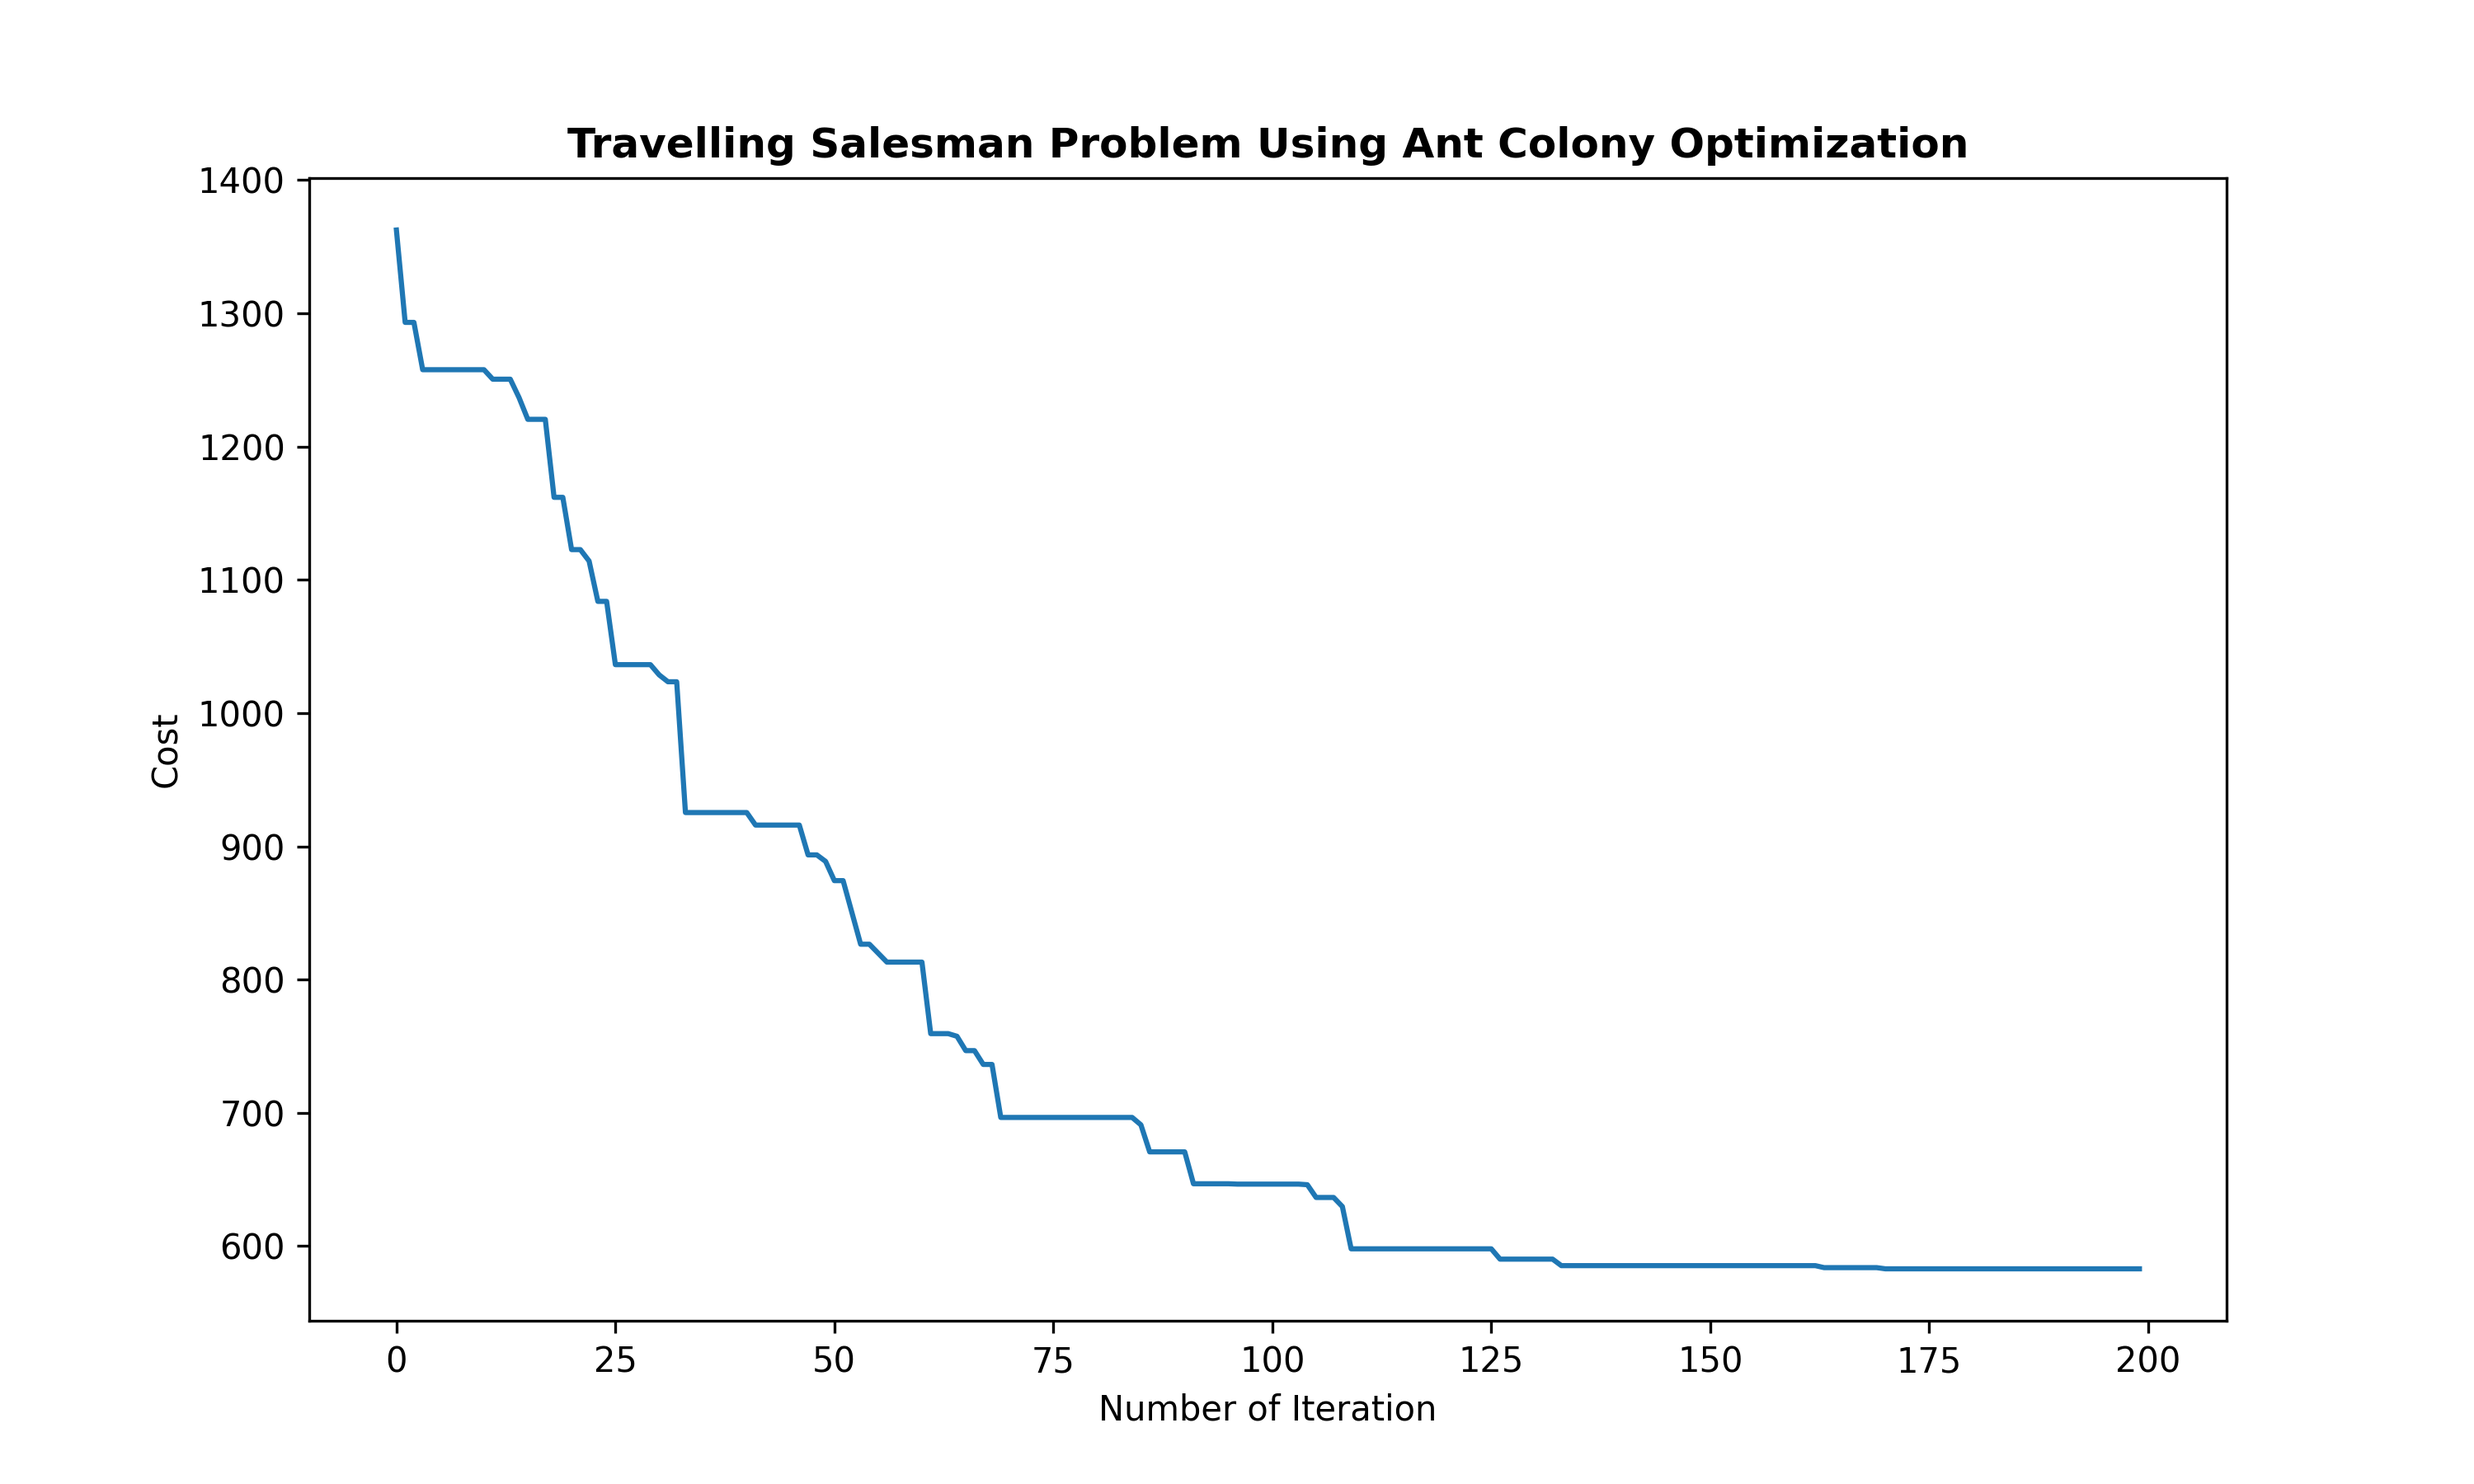
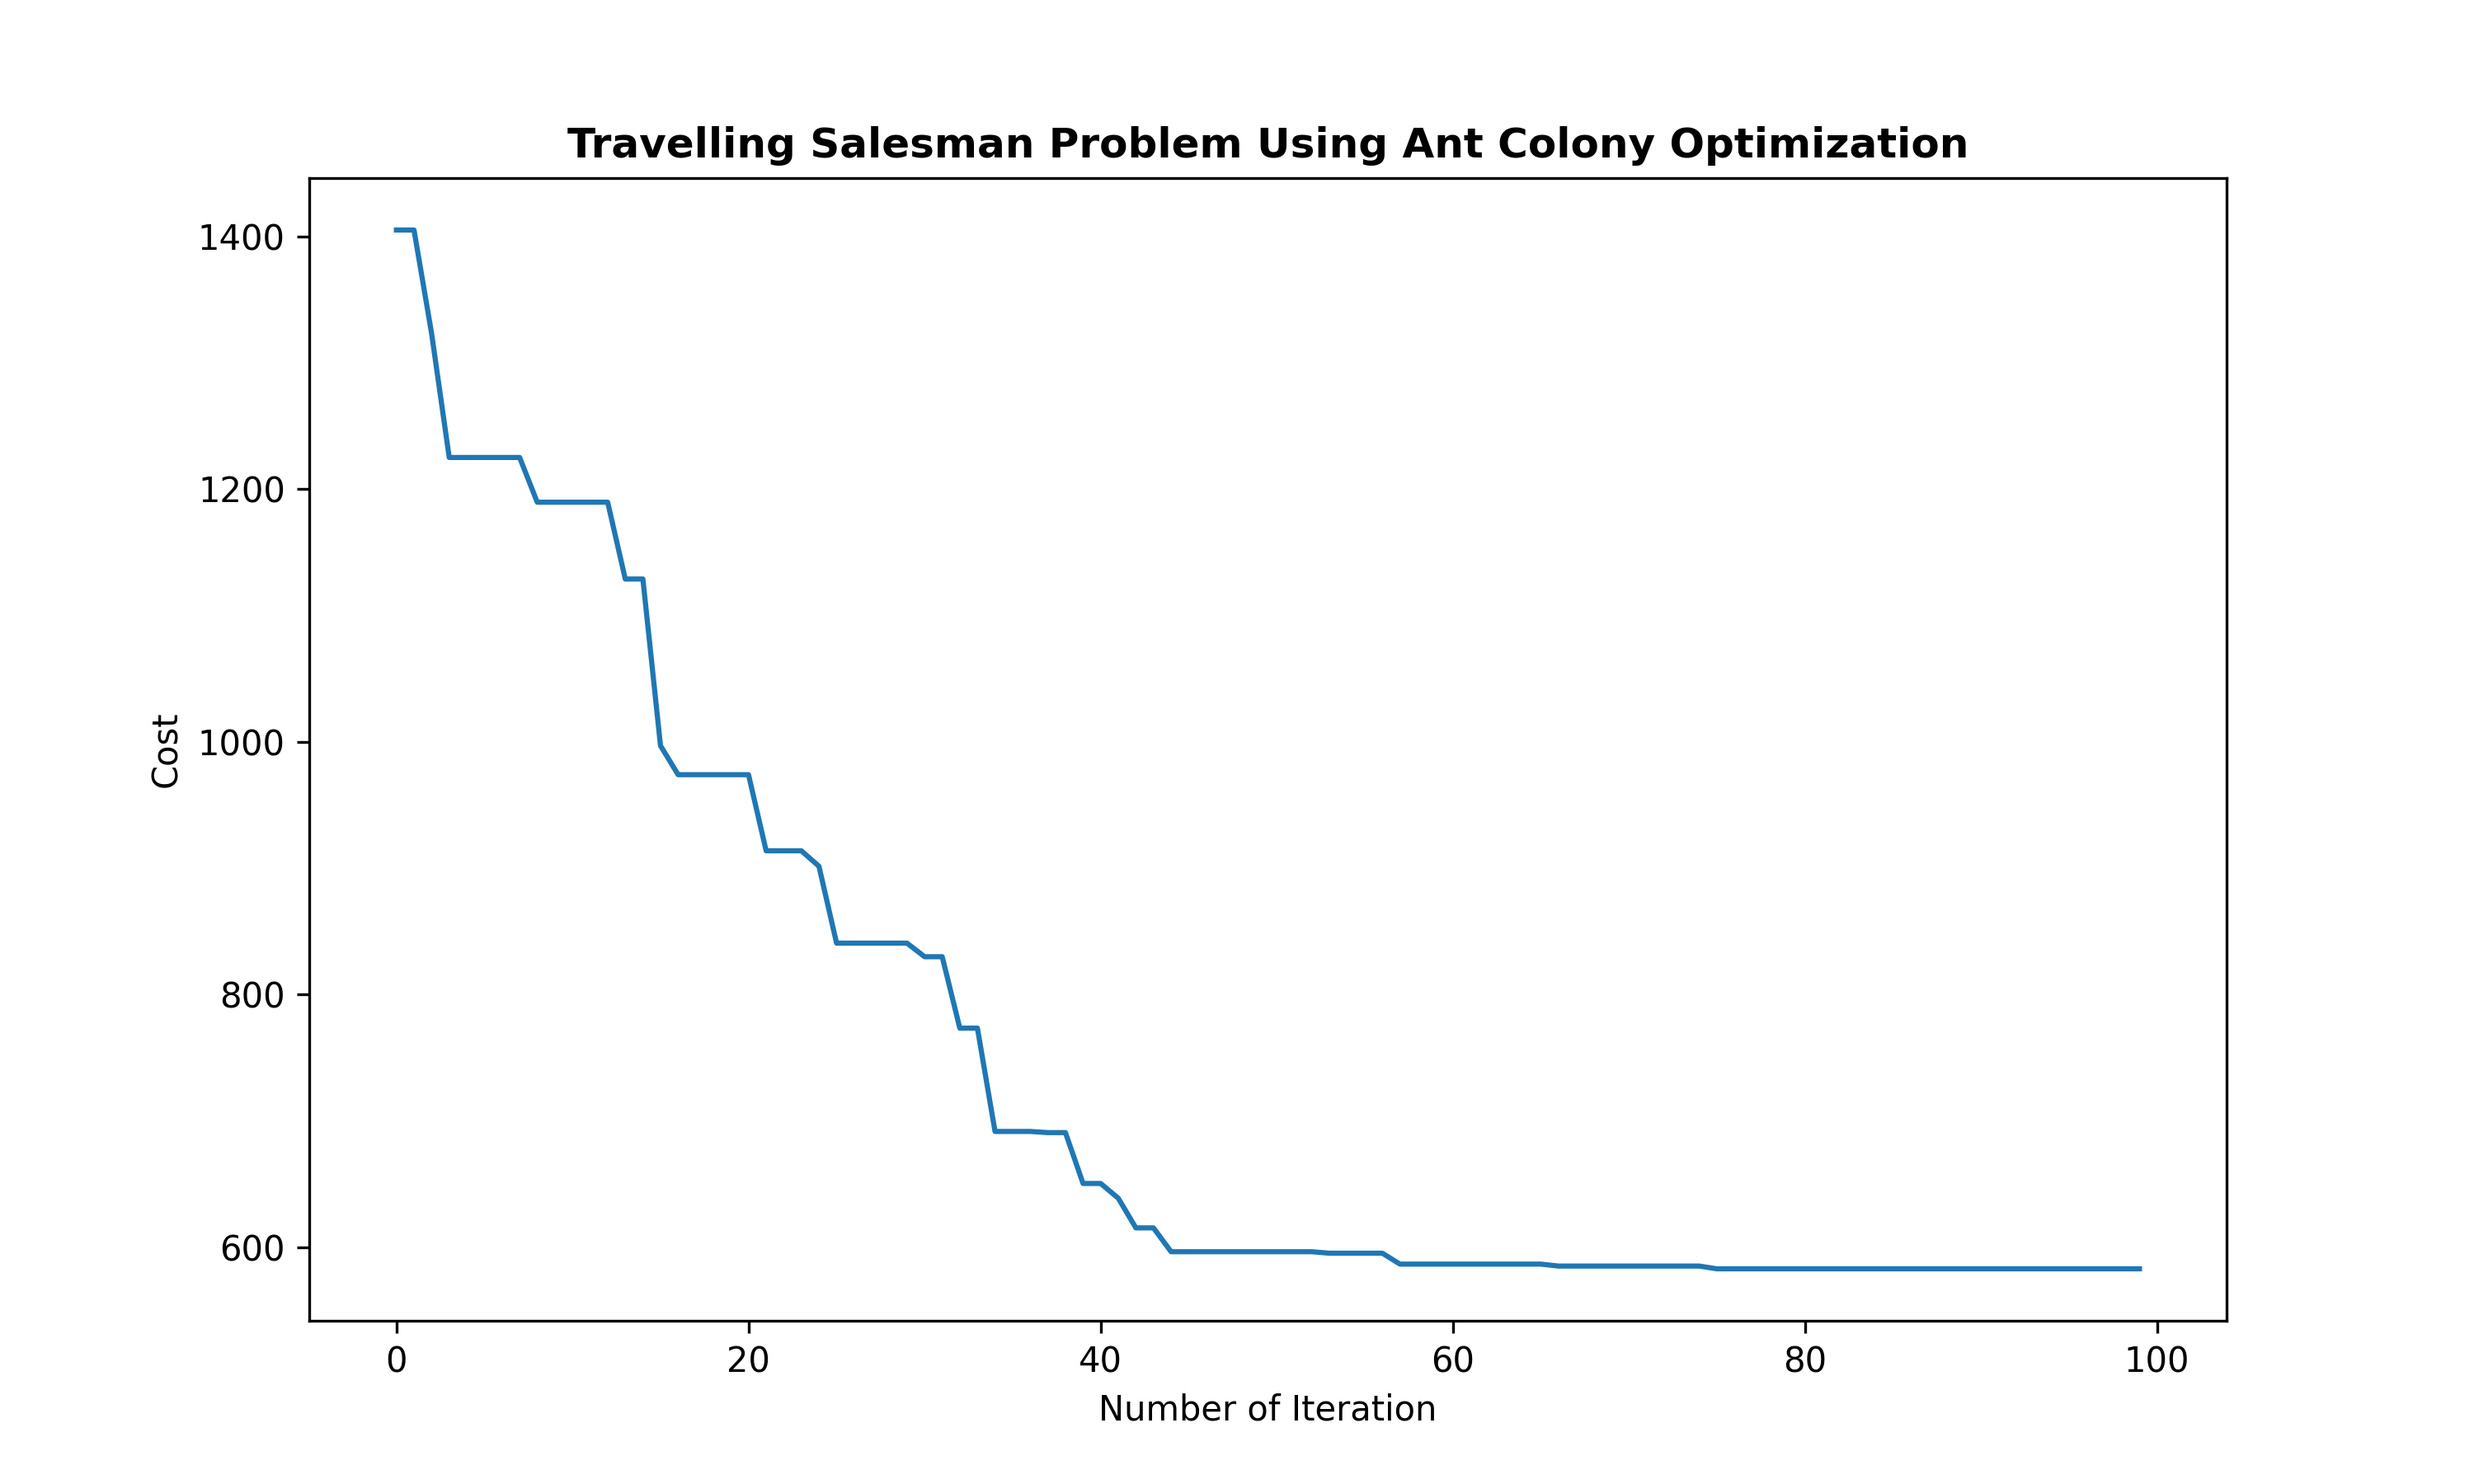
travelling salesman problem using ant colony optimization

diff --git a/travelling_salesman_problem/ant_colony.py b/travelling_salesman_problem/ant_colony.py
@@ -97,7 +97,7 @@ class ACO:
                 new_cost = self._cost_function(new_tour)
 
                 if new_cost < self._best_ant.cost:
-                    print("Mutation :D")
+
                     self._best_ant.tour = copy.copy(new_tour)
                     self._best_ant.cost = copy.copy(new_cost)
 
@@ -117,6 +117,7 @@ class ACO:
 
             self._pheromone[tour[0], tour[-1]] = self._pheromone[tour[-1], tour[0]]
 
+        self._pheromone *= (1 - self._pheromone_evaporation)
 
     def run(self):
 

diff --git a/travelling_salesman_problem/main.py b/travelling_salesman_problem/main.py
@@ -18,7 +18,7 @@ def main():
     cost_func = cost_function
 
     solution_method = ACO(cost_function=cost_func,
-                          max_iteration=200,
+                          max_iteration=100,
                           number_of_ants=150,
                           pheromone=pheromone,
                           pheromone_constant_update=1,
